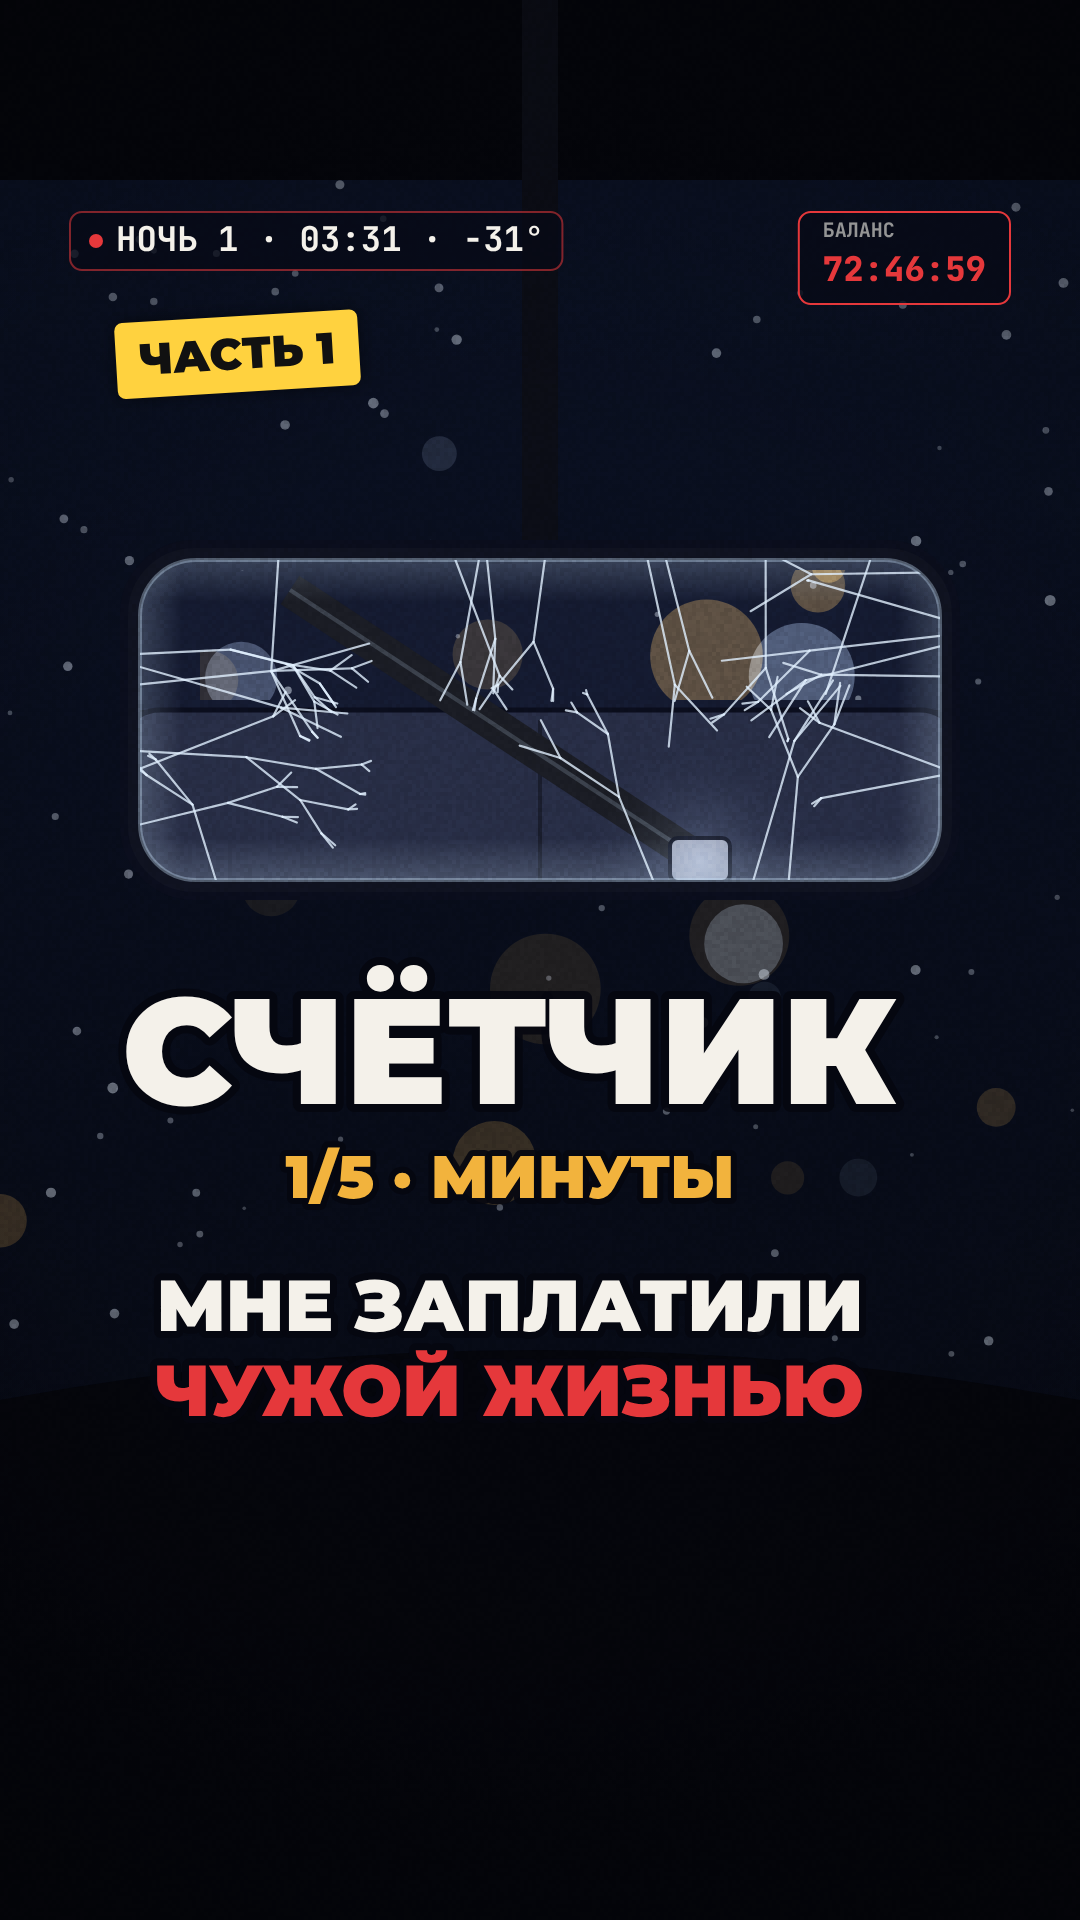
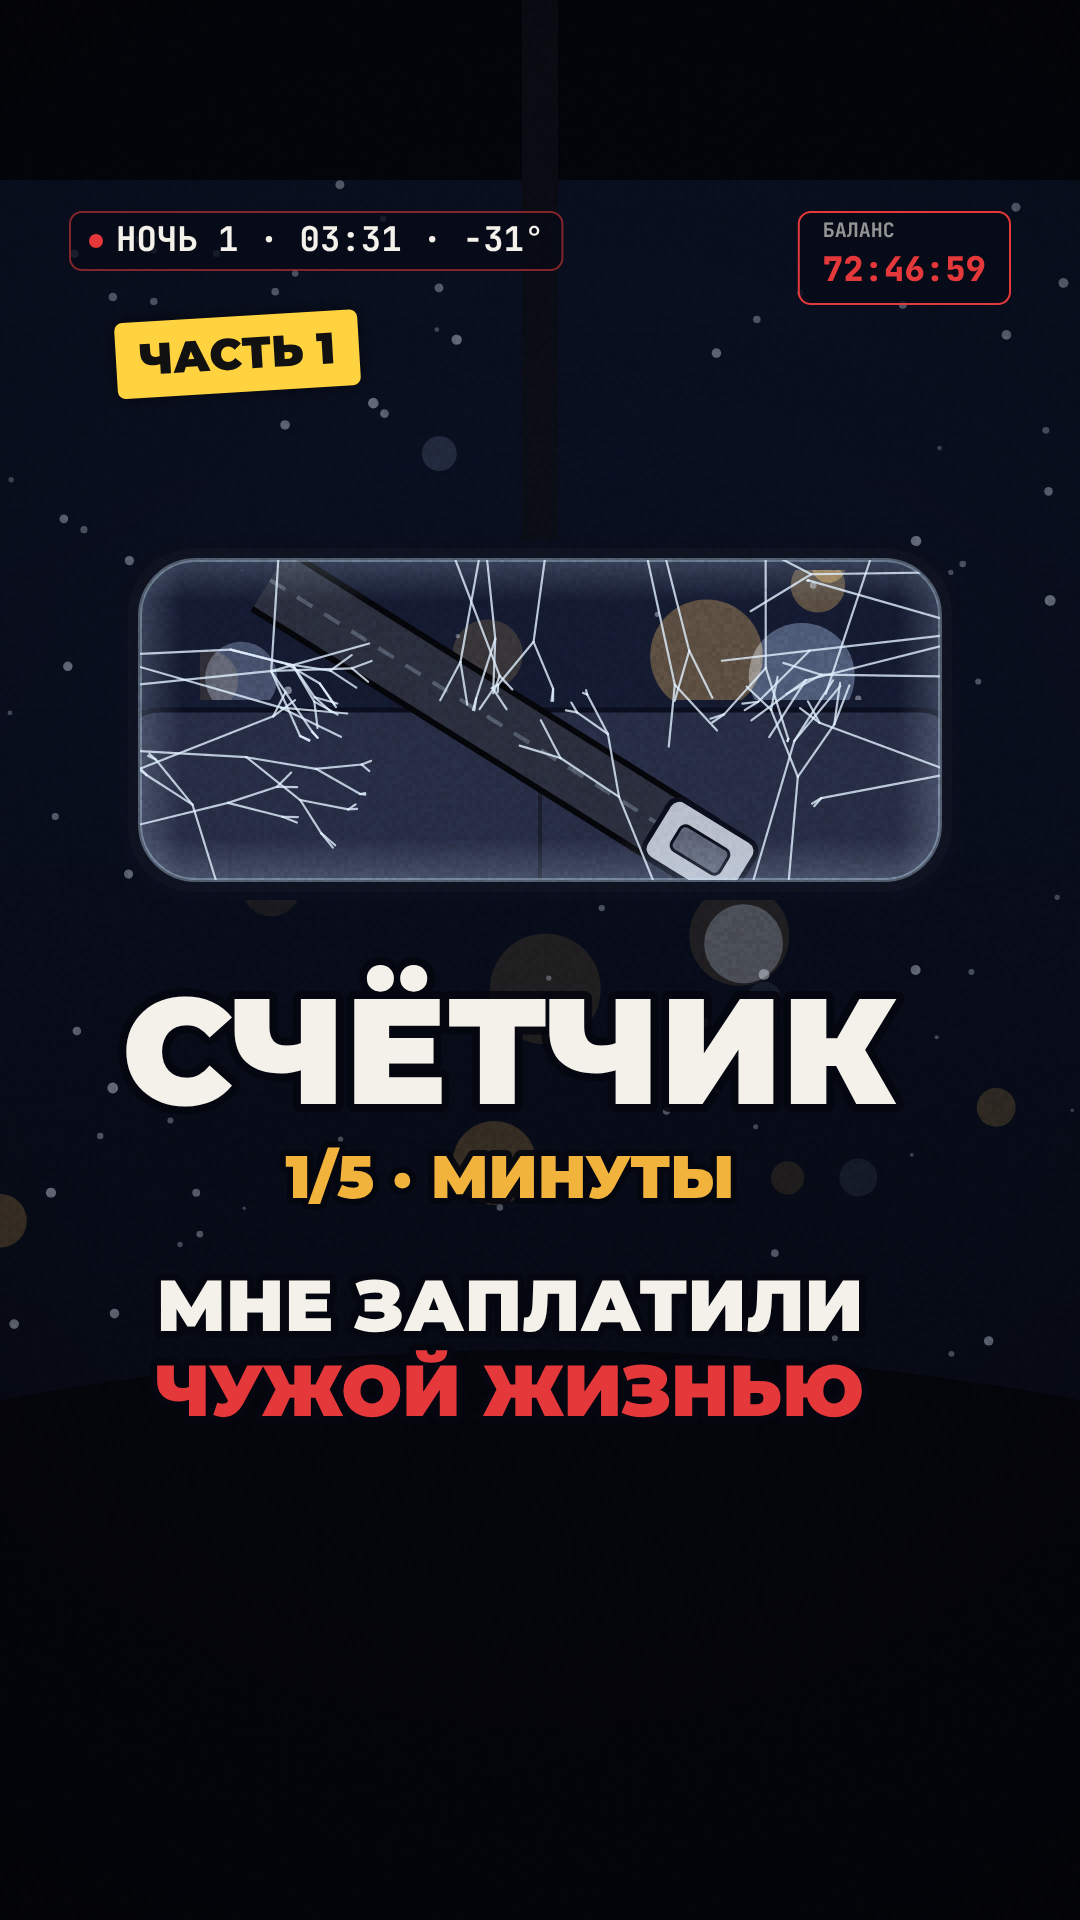
schetchik drafts v2: all five episodes rebuilt after review; report
Claude-Session: https://claude.ai/code/session_018i2QsFD6z2qJft8omEy8Bb

Changed region(s): [[0.2444, 0.2812, 0.7028, 0.4688]]

diff --git a/projects/schetchik/out/report-v2.md b/projects/schetchik/out/report-v2.md
@@ -1,0 +1,43 @@
+# «Счётчик» — черновики v2 (720p), отчёт к сдаче
+
+## Звук и длительность
+| Серия | Длительность | Громкость | Пик | Телефон в кадре |
+|---|---|---|---|---|
+| 1 «Минуты» | 59,4 с | −13,9 LUFS | −1,7 dBTP | 7,8 с (13%) |
+| 2 «Правила» | 53,5 с | −14,6 LUFS | −1,1 dBTP | 11 с (21%) |
+| 3 «Шахта» | 58,0 с | −14,8 LUFS | −1,1 dBTP | 10,6 с (18%) |
+| 4 «Объезд» | 58,0 с | −14,0 LUFS | −1,4 dBTP | 11,1 с (19%) |
+| 5 «Комиссия» | 59,0 с | −14,3 LUFS | −1,4 dBTP | 10,8 с (18%) |
+Мастер — двухпроходный loudnorm (`tools/master.py`). Тишина ≈1 с перед финальной фразой — во всех сериях.
+
+## Что исправлено по разбору v1
+- B1 маска регистратора: одна круглая виньетка + лёгкая «бочка», без повторов.
+- B2 субтитры: обводка #0E1630, тень, ещё не сказанные слова — сплошным серым (не прозрачностью), на светлом фоне — автоматическая подложка.
+- B3 зона субтитров 1150–1400 свободна от ключевых объектов: телефон ×0,85 и выше, сцены с машинами, кладбищем, баней, крыльцом, сугробом подняты; руки на руле — ниже зоны.
+- B4 финальные карточки скрывают обычные субтитры, на карточке — две строки.
+- B5 баланс «37 Л 10 МЕС» — в две строки, ширина плашки ограничена.
+- B6 баланс и время — одна функция сюжета `storyBalance` в lib.js для всех серий.
+- B7 громкость −14 ±1 во всех сериях.
+- D1 в каждой сцене наезд камеры; D2 длинные планы разбиты (кладбище, печка, дорога, крыльцо, «Водители», объятие, иней у плеча).
+- D3 с.4: объятие общим, затем мама крупно через плечо с видимым лицом, затем реакция Беки (в чёрной шапке).
+- D4 с.5: выбор, «Получатель = Водитель», вспышка, пустое зеркало, начисление и комиссия — на весь экран; реакции между экранами телефона.
+- D5 хук с.1: зеркало на ~90% ширины, широкая лента ремня с пряжкой, натяжение 0,6 с, вспышка 2 кадра на щелчке.
+- D6 старушка в профиль, меховая шапка, термос с паром, снег на плечах, выше субтитров; общий и крупный план.
+- D7 реплики мёртвых — цвет инея и курсив; «Молодец» звучит на зеркале с бликом фонаря.
+- D8 карточки правил — свои места, сдвиг −40 px с проявлением. D9 карточки ≤ 2,5 с. D10 хуки — одной фразой; предлог и число не отрываются от слова.
+- P1 машина в кювете целиком колёсами вверх; P2 кисть Марата в масштабе телефона снизу справа; P3 руль, приборы, наезд на костяшки; P4 старик — локти согнуты, наклон вперёд.
+- Длинные слова на экране телефона переносятся с дефисом.
+
+## Отступления от ТЗ (осознанно)
+- С.1 — 59,4 с (было 58): шёпот «Через минуту он зазвонил…» звучит до финальной карточки, карточка не перекрывается субтитром.
+- С.2 — 53,5 с (было 57): финальная карточка сокращена до 2,5 с по разбору.
+- С.4: на кадре паузы в 05:00 счётчик стоит ровно на 27:12:00, потом тикает дальше — иначе к началу С.5 не получится 04:55.
+- С.3: в 03:17 второй ночи по формуле баланс 49:33, в ТЗ 49:32 (разница 1 мин из-за округления в ТЗ).
+- С.5: «Вы на месте» — крупно на чёрном перед вспышкой; комиссия и «Получатель = Водитель» — типографикой на весь экран вместо экрана телефона (D4).
+
+## Что не удалось проверить
+- Голос на слух: все голоса — черновой синтез (Piper), казахская реплика — синтез, проверить носителю языка.
+- Синхрон субтитров ±80 мс: метки сняты faster-whisper (модель base) с синтетического голоса; после записи живых голосов — пересчитать.
+- Контраст 4,5:1 числом не считался: стоят обводка, тень и подложка; автопроверка `qa.py` ещё помечает светлый снег вокруг подложки (с.1 0:18–0:24, с.3 0:03–0:06, с.4 0:50–0:51, с.5 0:43–0:44 — белая вспышка без субтитров).
+- `qa.py` помечает с.4 0:25–0:30 как «одну композицию»: там два плана (зеркало и крупно иней у плеча) с похожей тёмной картинкой.
+- Финал 1080×1920 (CRF 18) — после голосов.
